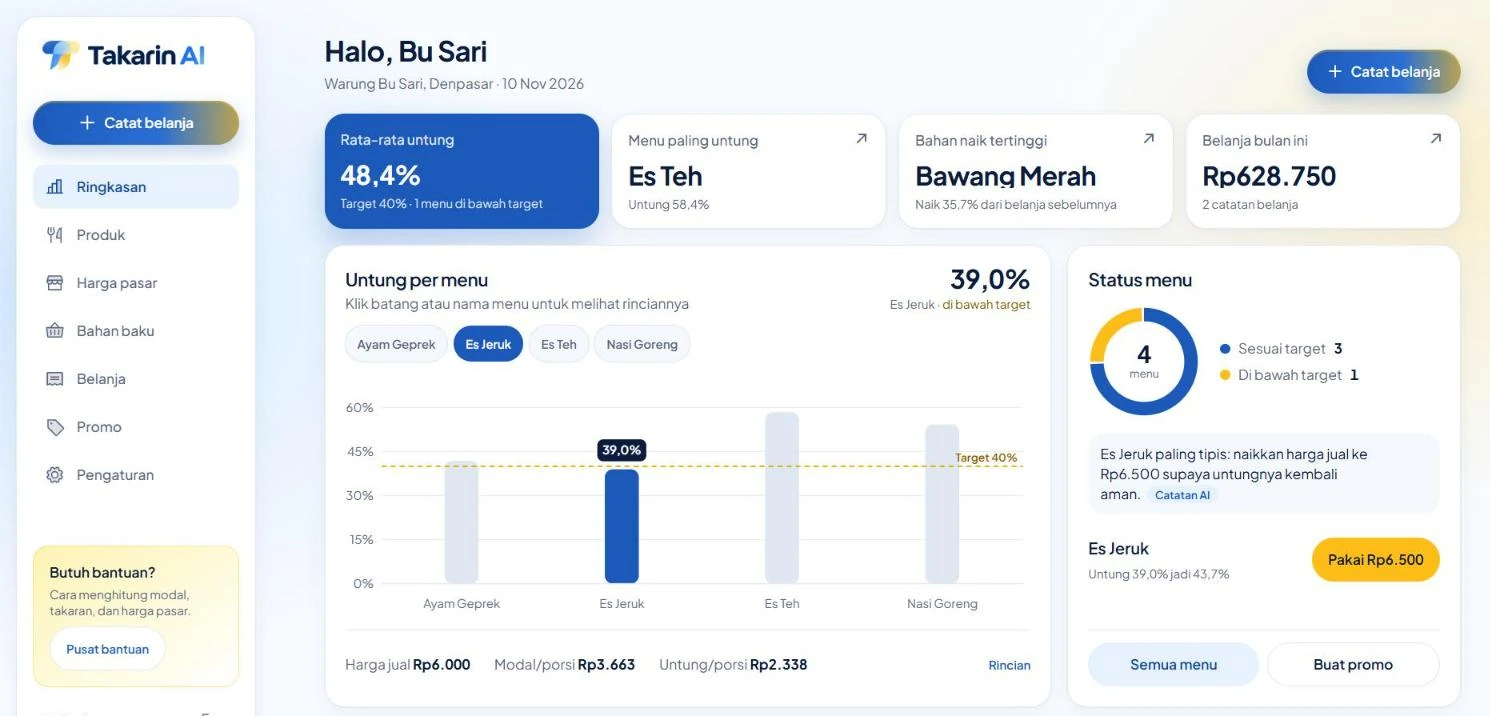
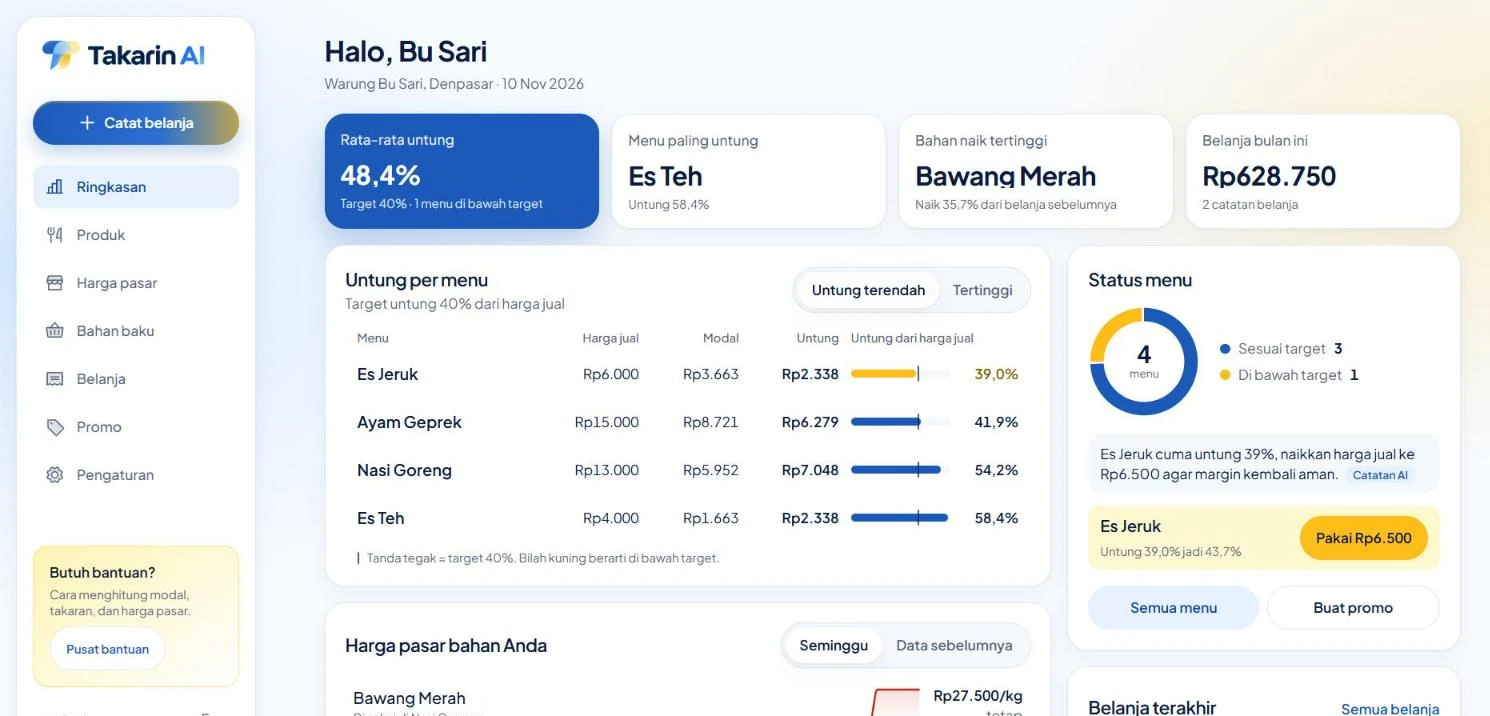
feat: daftar untung per menu di Dashboard dengan tata letak dua kolom
- Untung per menu: baris berisi harga jual, modal, untung, dan bilah untung dengan tanda target, bisa diurutkan
- Garis pemisah daftar diganti sorotan baris; tombol Catat belanja ganda dan ikon panah KPI dihapus
- Kolom kiri: untung per menu dan harga pasar; kolom kanan: status menu dan belanja terakhir
- Tangkapan layar hero/login diperbarui; gambar hero lebih kecil agar ada ruang di bawah

diff --git a/client/src/pages/Dashboard.jsx b/client/src/pages/Dashboard.jsx
@@ -1,12 +1,12 @@
 import { useState } from 'react';
 import { Link } from 'react-router-dom';
-import { Plus, ShoppingCart, Camera, Microphone, TextT, PencilSimple, ArrowUpRight } from '@phosphor-icons/react';
+import { Plus, ShoppingCart, Camera, Microphone, TextT, PencilSimple } from '@phosphor-icons/react';
 import { useApi } from '../lib/hooks.js';
 import { useAuth } from '../lib/auth.jsx';
 import { api, persen, pesanGalat, rupiah, tanggal } from '../lib/api.js';
 import { Galat, Kartu, Muat, Tombol } from '../components/ui.jsx';
 import { Segmen } from '../components/Grafik.jsx';
-import { BatangUntung, Mini } from '../components/Chart.jsx';
+import { Mini } from '../components/Chart.jsx';
 import { Perubahan } from './Pasar.jsx';
 
 const SUMBER = { foto: [Camera, 'Foto nota'], suara: [Microphone, 'Suara'], teks: [TextT, 'Ketik'], manual: [PencilSimple, 'Manual'] };
@@ -36,7 +36,6 @@ function Kpi({ label, nilai, ket, to, utama = false }) {
     <>
       <span className="flex items-start justify-between gap-2">
         <span className={`text-sm font-medium ${utama ? 'text-white/85' : 'text-redup'}`}>{label}</span>
-        {to && <ArrowUpRight size={16} weight="bold" className={utama ? 'text-white/70' : 'text-redup'} aria-hidden />}
       </span>
       <span className="font-judul angka mt-3 block truncate text-[26px] leading-none font-bold">{nilai}</span>
       <span className={`mt-2 block truncate text-xs ${utama ? 'text-white/80' : 'text-redup'}`}>{ket}</span>
@@ -51,73 +50,78 @@ function Kpi({ label, nilai, ket, to, utama = false }) {
   );
 }
 
-// Grafik batang untung per menu dengan sumbu persen dan garis target. Batang terpilih berwarna biru.
-function GrafikUntung({ produk, target }) {
-  const lengkap = produk.filter((p) => p.lengkap);
-  const [pilih, setPilih] = useState(() => [...lengkap].sort((a, b) => a.margin - b.margin)[0]?.id);
-  const p = lengkap.find((x) => x.id === pilih) || lengkap[0];
+// Untung tiap menu sebagai daftar. Bilah menunjukkan untung; tanda tegak menunjukkan target.
+function TabelUntung({ produk, target }) {
+  const [urut, setUrut] = useState('rendah');
+  const lengkap = produk.filter((p) => p.lengkap).sort((a, b) => (urut === 'rendah' ? a.margin - b.margin : b.margin - a.margin));
+  const belum = produk.filter((p) => !p.lengkap);
+  const skala = Math.max(target * 1.5, ...lengkap.map((p) => p.margin), 0.01);
+  const kolom = 'sm:grid-cols-[minmax(0,1.3fr)_5.5rem_5.5rem_5.5rem_minmax(9rem,1.2fr)]';
 
   return (
     <Kartu className="flex flex-col">
-      <div className="flex flex-wrap items-start justify-between gap-3">
+      <div className="flex flex-wrap items-center justify-between gap-3">
         <div>
           <h2 className="text-lg font-semibold">Untung per menu</h2>
-          <p className="text-sm text-redup">Klik batang atau nama menu untuk melihat rinciannya</p>
+          <p className="text-sm text-redup">Target untung {persen(target, 0)} dari harga jual</p>
         </div>
-        {p && (
-          <div className="text-right">
-            <p className="font-judul angka text-[26px] leading-none font-bold">{persen(p.margin)}</p>
-            <p className="mt-1 text-xs text-redup">
-              {p.nama} · <span className={p.status === 'aman' ? 'text-aman' : 'text-waspada'}>{p.status === 'aman' ? 'sesuai target' : 'di bawah target'}</span>
-            </p>
-          </div>
-        )}
+        <Segmen
+          label="Urutkan menu"
+          pilihan={[
+            ['rendah', 'Untung terendah'],
+            ['tinggi', 'Tertinggi'],
+          ]}
+          nilai={urut}
+          ubah={setUrut}
+        />
       </div>
 
-      {lengkap.length ? (
-        <>
-          <div className="mt-3 flex flex-wrap gap-1.5" role="group" aria-label="Pilih menu">
-            {lengkap.map((m) => (
-              <button
-                key={m.id}
-                type="button"
-                aria-pressed={m.id === p?.id}
-                onClick={() => setPilih(m.id)}
-                className={`min-h-9 rounded-full px-3 text-xs font-semibold transition-colors ${m.id === p?.id ? 'bg-biru text-white' : 'bg-dasar text-redup ring-1 ring-garis hover:text-tinta'}`}
-              >
-                {m.nama}
-              </button>
-            ))}
-          </div>
-          <div className="mt-3">
-            <BatangUntung data={lengkap} target={target} pilih={p?.id} ubah={setPilih} />
-          </div>
-        </>
-      ) : (
-        <p className="mt-5 text-sm text-redup">Lengkapi harga bahan menu supaya untungnya bisa dihitung.</p>
-      )}
-
-      {p && (
-        <div className="mt-4 flex flex-wrap items-center gap-x-6 gap-y-2 border-t border-garis pt-3 text-sm">
-          <span className="angka">
-            <span className="text-redup">Harga jual </span>
-            <b>{rupiah(p.harga_jual)}</b>
-          </span>
-          <span className="angka">
-            <span className="text-redup">Modal/porsi </span>
-            <b>{rupiah(p.hpp)}</b>
-          </span>
-          <span className="angka">
-            <span className="text-redup">Untung/porsi </span>
-            <b>{rupiah(p.harga_jual - p.hpp)}</b>
-          </span>
-          <span className="flex items-center gap-3 text-xs text-redup sm:ml-auto">
-            <Link to={`/produk/${p.id}`} className="inline-flex min-h-11 items-center font-semibold text-biru hover:underline">
-              Rincian
+      <div className={`mt-4 hidden gap-3 px-3 text-xs font-medium text-redup sm:grid ${kolom}`}>
+        <span>Menu</span>
+        <span className="text-right">Harga jual</span>
+        <span className="text-right">Modal</span>
+        <span className="text-right">Untung</span>
+        <span>Untung dari harga jual</span>
+      </div>
+      <ul className="mt-1 flex flex-col">
+        {lengkap.map((p) => {
+          const kurang = p.status !== 'aman';
+          return (
+            <li key={p.id}>
+              <Link to={`/produk/${p.id}`} className={`grid grid-cols-[minmax(0,1fr)_auto] items-center gap-x-3 gap-y-2 rounded-xl px-3 py-3 transition-colors hover:bg-dasar ${kolom}`}>
+                <span className="min-w-0">
+                  <span className="block truncate font-semibold">{p.nama}</span>
+                  <span className="angka block text-xs text-redup sm:hidden">
+                    {rupiah(p.harga_jual)} · modal {rupiah(p.hpp)}
+                  </span>
+                </span>
+                <span className="angka hidden text-right text-sm sm:block">{rupiah(p.harga_jual)}</span>
+                <span className="angka hidden text-right text-sm sm:block">{rupiah(p.hpp)}</span>
+                <span className="angka hidden text-right text-sm font-semibold sm:block">{rupiah(p.harga_jual - p.hpp)}</span>
+                <span className="col-span-2 flex items-center gap-3 sm:col-span-1">
+                  <span className="relative h-2 flex-1 rounded-full bg-dasar" aria-hidden>
+                    <span className={`absolute inset-y-0 left-0 rounded-full ${kurang ? 'bg-kuning' : 'bg-biru'}`} style={{ width: `${(Math.max(0, p.margin) / skala) * 100}%` }} />
+                    <span className="absolute -top-1 -bottom-1 w-0.5 rounded-full bg-tinta/70" style={{ left: `${(target / skala) * 100}%` }} />
+                  </span>
+                  <span className={`angka w-14 text-right text-sm font-semibold ${kurang ? 'text-waspada' : ''}`}>{persen(p.margin)}</span>
+                </span>
+              </Link>
+            </li>
+          );
+        })}
+        {belum.map((p) => (
+          <li key={p.id}>
+            <Link to={`/produk/${p.id}`} className="flex items-center justify-between gap-3 rounded-xl px-3 py-3 hover:bg-dasar">
+              <span className="truncate font-semibold">{p.nama}</span>
+              <span className="text-xs text-redup">Harga bahan belum lengkap</span>
             </Link>
-          </span>
-        </div>
-      )}
+          </li>
+        ))}
+      </ul>
+      {!produk.length && <p className="mt-4 text-sm text-redup">Belum ada menu. Tambahkan menu pertama di halaman Produk.</p>}
+      <p className="mt-2 flex items-center gap-2 px-3 text-xs text-redup">
+        <span className="h-3 w-0.5 rounded-full bg-tinta/70" aria-hidden /> Tanda tegak = target {persen(target, 0)}. Bilah kuning berarti di bawah target.
+      </p>
     </Kartu>
   );
 }
@@ -190,9 +194,9 @@ function StatusMenu({ kpi, perlu, catatan, sesudah }) {
       </p>
 
       {perlu.length > 0 && (
-        <ul className="mt-3 flex flex-col divide-y divide-garis">
+        <ul className="mt-3 flex flex-col gap-2">
           {perlu.slice(0, 3).map((p) => (
-            <li key={p.id} className="flex flex-wrap items-center justify-between gap-2 py-2.5">
+            <li key={p.id} className="flex flex-wrap items-center justify-between gap-2 rounded-xl bg-kuning-muda/60 px-3 py-2">
               <span className="min-w-0">
                 <Link to={`/produk/${p.id}`} className="block truncate font-semibold hover:text-biru">
                   {p.nama}
@@ -217,7 +221,7 @@ function StatusMenu({ kpi, perlu, catatan, sesudah }) {
         </ul>
       )}
       {galat && <p className="mt-2 text-sm font-semibold text-rugi">{galat}</p>}
-      <div className="mt-auto flex flex-wrap gap-2 border-t border-garis pt-3">
+      <div className="mt-auto flex flex-wrap gap-2 pt-4">
         <Tombol varian="lembut" to="/produk" className="flex-1">
           Semua menu
         </Tombol>
@@ -247,10 +251,10 @@ function HargaPasar({ data }) {
         />
       </div>
       {data.length ? (
-        <ul className="divide-y divide-garis">
+        <ul className="flex flex-col">
           {data.map((d) => (
             <li key={d.komoditas}>
-              <Link to="/pasar" state={{ komoditas: d.komoditas }} className="grid grid-cols-[1fr_auto] items-center gap-3 py-2.5 hover:text-biru sm:grid-cols-[1fr_6rem_auto]">
+              <Link to="/pasar" state={{ komoditas: d.komoditas }} className="grid grid-cols-[1fr_auto] items-center gap-3 rounded-xl px-2 py-2.5 hover:bg-dasar sm:grid-cols-[1fr_6rem_auto]">
                 <span className="min-w-0">
                   <span className="block truncate font-medium capitalize">{d.komoditas}</span>
                   <span className="block truncate text-xs text-redup">{d.menu.length ? `Dipakai di ${d.menu.map((m) => m.nama).join(', ')}` : d.wilayah}</span>
@@ -286,12 +290,12 @@ function BelanjaTerakhir({ daftar }) {
         )}
       </div>
       {daftar.length ? (
-        <ul className="divide-y divide-garis">
+        <ul className="flex flex-col">
           {daftar.map((n) => {
             const [Ikon, cara] = SUMBER[n.sumber] || SUMBER.manual;
             return (
               <li key={n.id}>
-                <Link to={`/belanja/${n.id}`} className="flex min-h-14 items-center gap-3 py-2 hover:text-biru">
+                <Link to={`/belanja/${n.id}`} className="flex min-h-14 items-center gap-3 rounded-xl px-2 py-2 hover:bg-dasar">
                   <span className="flex size-9 shrink-0 items-center justify-center rounded-xl bg-biru-muda text-biru" aria-hidden>
                     <Ikon size={16} weight="bold" />
                   </span>
@@ -345,9 +349,6 @@ export default function Dashboard() {
             {usaha.kota ? `, ${usaha.kota}` : ''} · {tanggal(new Date().toISOString())}
           </p>
         </div>
-        <Tombol to="/belanja/baru">
-          <Plus size={16} weight="bold" aria-hidden /> Catat belanja
-        </Tombol>
       </header>
 
       <div className="grid grid-cols-1 gap-3 sm:grid-cols-2 xl:grid-cols-4">
@@ -357,14 +358,15 @@ export default function Dashboard() {
         <Kpi label="Belanja bulan ini" nilai={rupiah(kpi.belanja_bulan_ini)} ket={`${kpi.nota_bulan_ini} catatan belanja`} to="/belanja" />
       </div>
 
-      <div className="mt-4 grid grid-cols-1 gap-4 xl:grid-cols-[minmax(0,1.85fr)_minmax(0,1fr)]">
-        <GrafikUntung produk={produk} target={usaha.target_margin} />
-        <StatusMenu kpi={kpi} perlu={perlu_tindakan} catatan={catatan} sesudah={muat} />
-      </div>
-
-      <div className="mt-4 grid grid-cols-1 gap-4 xl:grid-cols-[minmax(0,1.85fr)_minmax(0,1fr)]">
-        <HargaPasar data={pasar_ringkas} />
-        <BelanjaTerakhir daftar={belanja_terakhir} />
+      <div className="mt-4 grid grid-cols-1 gap-4 xl:grid-cols-[minmax(0,1.85fr)_minmax(0,1fr)] xl:items-start">
+        <div className="flex min-w-0 flex-col gap-4">
+          <TabelUntung produk={produk} target={usaha.target_margin} />
+          <HargaPasar data={pasar_ringkas} />
+        </div>
+        <div className="flex min-w-0 flex-col gap-4">
+          <StatusMenu kpi={kpi} perlu={perlu_tindakan} catatan={catatan} sesudah={muat} />
+          <BelanjaTerakhir daftar={belanja_terakhir} />
+        </div>
       </div>
     </>
   );

diff --git a/client/src/pages/Publik.jsx b/client/src/pages/Publik.jsx
@@ -114,13 +114,13 @@ function KartuMelayang({ posisi, ikon, warna, judul, teks }) {
 // Pratinjau: tangkapan layar asli halaman Ringkasan dengan akun demo.
 function Pratinjau() {
   return (
-    <figure className="mx-auto max-w-[760px]">
+    <figure className="mx-auto max-w-[680px]">
       <div className="rounded-[22px] border border-white bg-white/70 p-1.5 shadow-[0_30px_70px_rgb(29_89_187/0.18)] backdrop-blur">
         <img
           src="/tangkapan-ringkasan.webp"
           width="1490"
           height="716"
-          alt="Halaman Ringkasan Takarin AI: rata-rata untung 48,4%, grafik untung per menu dengan garis target 40%, dan saran menaikkan harga Es Jeruk ke Rp6.500."
+          alt="Halaman Ringkasan Takarin AI: rata-rata untung 48,4%, daftar untung per menu terhadap target 40%, dan saran menaikkan harga Es Jeruk ke Rp6.500."
           className="block h-auto w-full rounded-[16px] border border-garis"
           fetchPriority="high"
         />
@@ -246,8 +246,8 @@ const PRINSIP = [
 export function Beranda() {
   return (
     <main>
-      <section className="relative mx-auto max-w-6xl px-4 pt-8 pb-16 text-center sm:px-6 lg:pt-8 lg:pb-20">
-        <h1 className="mx-auto max-w-4xl text-4xl leading-[1.08] font-extrabold tracking-tight sm:text-5xl lg:text-[56px]">
+      <section className="relative mx-auto max-w-6xl px-4 pt-8 pb-20 text-center sm:px-6 lg:pt-8 lg:pb-24">
+        <h1 className="mx-auto max-w-4xl text-4xl leading-[1.08] font-extrabold tracking-tight sm:text-5xl lg:text-[52px]">
           Hitung HPP Usahamu
           <br />
           dari <span className="teks-biru">Nota</span> <span className="teks-emas">Belanja</span>
@@ -270,7 +270,7 @@ export function Beranda() {
           <Pratinjau />
         </div>
 
-        <div className="mt-12">
+        <div className="mt-20">
           <div className="flex items-center gap-4">
             <span className="h-px flex-1 bg-gradient-to-r from-transparent to-biru-terang/60" />
             <p className="text-base font-semibold">Dirancang mengikuti cara warung bekerja</p>
